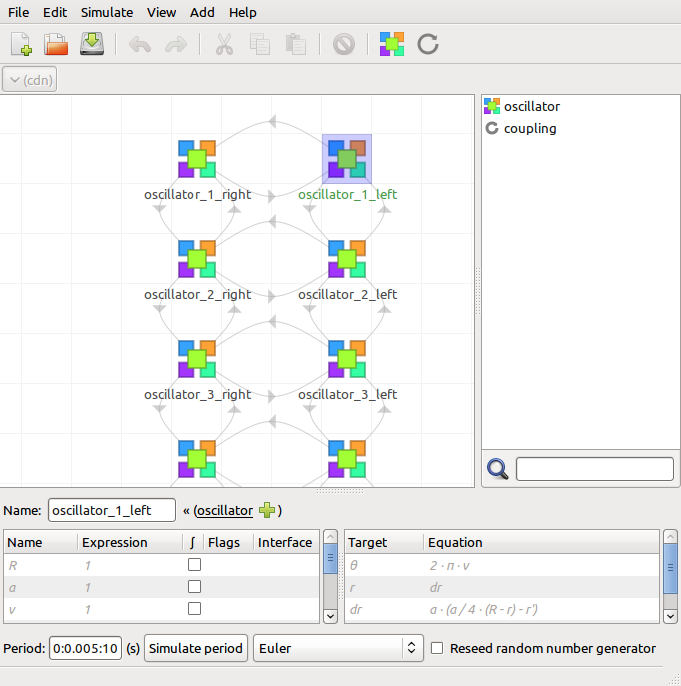
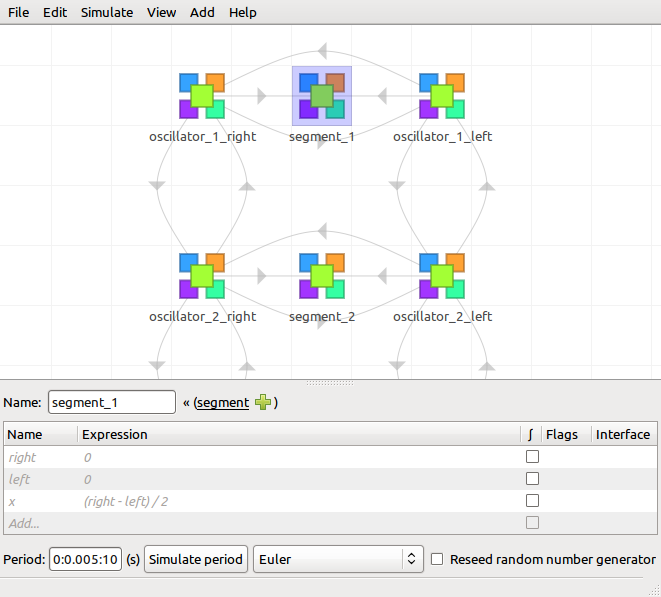
Updated renderings

Changed region(s): [[0.0, 0.0, 1.0, 0.995], [0.5749, 0.603, 0.6051, 0.6332]]

diff --git a/docs/figures/complete.inc.tex b/docs/figures/complete.inc.tex
@@ -1,21 +1,29 @@
 \newcommand{\rendercodyn}[1][]{
 	\begin{scope}[#1]
-		\cdnnode[cdn node,template oscillator/.try,node oscillator_1_right/.try] (oscillator_1_right) at (0, -2)
-		\cdnnode[cdn node,template oscillator/.try,node oscillator_1_left/.try] (oscillator_1_left) at (3, -2)
-		\cdnnode[cdn node,template oscillator/.try,node oscillator_2_right/.try] (oscillator_2_right) at (0, -4)
-		\cdnnode[cdn node,template oscillator/.try,node oscillator_2_left/.try] (oscillator_2_left) at (3, -4)
-		\cdnnode[cdn node,template oscillator/.try,node oscillator_3_right/.try] (oscillator_3_right) at (0, -6)
-		\cdnnode[cdn node,template oscillator/.try,node oscillator_3_left/.try] (oscillator_3_left) at (3, -6)
-		\cdnnode[cdn node,template oscillator/.try,node oscillator_4_right/.try] (oscillator_4_right) at (0, -8)
-		\cdnnode[cdn node,template oscillator/.try,node oscillator_4_left/.try] (oscillator_4_left) at (3, -8)
-		\cdnnode[cdn node,template oscillator/.try,node oscillator_5_right/.try] (oscillator_5_right) at (0, -10)
-		\cdnnode[cdn node,template oscillator/.try,node oscillator_5_left/.try] (oscillator_5_left) at (3, -10)
-		\cdnnode[cdn node,template oscillator/.try,node oscillator_6_right/.try] (oscillator_6_right) at (0, -12)
-		\cdnnode[cdn node,template oscillator/.try,node oscillator_6_left/.try] (oscillator_6_left) at (3, -12)
-		\cdnnode[cdn node,template oscillator/.try,node oscillator_7_right/.try] (oscillator_7_right) at (0, -14)
-		\cdnnode[cdn node,template oscillator/.try,node oscillator_7_left/.try] (oscillator_7_left) at (3, -14)
-		\cdnnode[cdn node,template oscillator/.try,node oscillator_8_right/.try] (oscillator_8_right) at (0, -16)
-		\cdnnode[cdn node,template oscillator/.try,node oscillator_8_left/.try] (oscillator_8_left) at (3, -16)
+		\cdnnode[cdn node,template oscillator/.try,node oscillator_1_right/.try] (oscillator_1_right) at (0, -3)
+		\cdnnode[cdn node,template oscillator/.try,node oscillator_1_left/.try] (oscillator_1_left) at (4, -3)
+		\cdnnode[cdn node,template oscillator/.try,node oscillator_2_right/.try] (oscillator_2_right) at (0, -6)
+		\cdnnode[cdn node,template oscillator/.try,node oscillator_2_left/.try] (oscillator_2_left) at (4, -6)
+		\cdnnode[cdn node,template oscillator/.try,node oscillator_3_right/.try] (oscillator_3_right) at (0, -9)
+		\cdnnode[cdn node,template oscillator/.try,node oscillator_3_left/.try] (oscillator_3_left) at (4, -9)
+		\cdnnode[cdn node,template oscillator/.try,node oscillator_4_right/.try] (oscillator_4_right) at (0, -12)
+		\cdnnode[cdn node,template oscillator/.try,node oscillator_4_left/.try] (oscillator_4_left) at (4, -12)
+		\cdnnode[cdn node,template oscillator/.try,node oscillator_5_right/.try] (oscillator_5_right) at (0, -15)
+		\cdnnode[cdn node,template oscillator/.try,node oscillator_5_left/.try] (oscillator_5_left) at (4, -15)
+		\cdnnode[cdn node,template oscillator/.try,node oscillator_6_right/.try] (oscillator_6_right) at (0, -18)
+		\cdnnode[cdn node,template oscillator/.try,node oscillator_6_left/.try] (oscillator_6_left) at (4, -18)
+		\cdnnode[cdn node,template oscillator/.try,node oscillator_7_right/.try] (oscillator_7_right) at (0, -21)
+		\cdnnode[cdn node,template oscillator/.try,node oscillator_7_left/.try] (oscillator_7_left) at (4, -21)
+		\cdnnode[cdn node,template oscillator/.try,node oscillator_8_right/.try] (oscillator_8_right) at (0, -24)
+		\cdnnode[cdn node,template oscillator/.try,node oscillator_8_left/.try] (oscillator_8_left) at (4, -24)
+		\cdnnode[cdn node,template segment/.try,node segment_1/.try] (segment_1) at (2, -3)
+		\cdnnode[cdn node,template segment/.try,node segment_2/.try] (segment_2) at (2, -6)
+		\cdnnode[cdn node,template segment/.try,node segment_3/.try] (segment_3) at (2, -9)
+		\cdnnode[cdn node,template segment/.try,node segment_4/.try] (segment_4) at (2, -12)
+		\cdnnode[cdn node,template segment/.try,node segment_5/.try] (segment_5) at (2, -15)
+		\cdnnode[cdn node,template segment/.try,node segment_6/.try] (segment_6) at (2, -18)
+		\cdnnode[cdn node,template segment/.try,node segment_7/.try] (segment_7) at (2, -21)
+		\cdnnode[cdn node,template segment/.try,node segment_8/.try] (segment_8) at (2, -24)
 
 		\cdnconnect[cdn offset=1,cdn edge,template coupling/.try,edge edge_1/.try] (edge_1) from (oscillator_1_right) to (oscillator_2_right)
 		\cdnconnect[cdn offset=1,cdn edge,template coupling/.try,edge edge_2/.try] (edge_2) from (oscillator_2_right) to (oscillator_1_right)
@@ -61,9 +69,25 @@
 		\cdnconnect[cdn offset=1,cdn edge,template coupling/.try,edge edge_14_1/.try] (edge_14_1) from (oscillator_7_left) to (oscillator_7_right)
 		\cdnconnect[cdn offset=1,cdn edge,template coupling/.try,edge edge_15_1/.try] (edge_15_1) from (oscillator_8_right) to (oscillator_8_left)
 		\cdnconnect[cdn offset=1,cdn edge,template coupling/.try,edge edge_16_1/.try] (edge_16_1) from (oscillator_8_left) to (oscillator_8_right)
+		\cdnconnect[cdn offset=0,cdn edge,edge edge_1_2/.try] (edge_1_2) from (oscillator_1_right) to (segment_1)
+		\cdnconnect[cdn offset=0,cdn edge,edge edge_2_2/.try] (edge_2_2) from (oscillator_1_left) to (segment_1)
+		\cdnconnect[cdn offset=0,cdn edge,edge edge_3_2/.try] (edge_3_2) from (oscillator_2_right) to (segment_2)
+		\cdnconnect[cdn offset=0,cdn edge,edge edge_4_2/.try] (edge_4_2) from (oscillator_2_left) to (segment_2)
+		\cdnconnect[cdn offset=0,cdn edge,edge edge_5_2/.try] (edge_5_2) from (oscillator_3_right) to (segment_3)
+		\cdnconnect[cdn offset=0,cdn edge,edge edge_6_2/.try] (edge_6_2) from (oscillator_3_left) to (segment_3)
+		\cdnconnect[cdn offset=0,cdn edge,edge edge_7_2/.try] (edge_7_2) from (oscillator_4_right) to (segment_4)
+		\cdnconnect[cdn offset=0,cdn edge,edge edge_8_2/.try] (edge_8_2) from (oscillator_4_left) to (segment_4)
+		\cdnconnect[cdn offset=0,cdn edge,edge edge_9_2/.try] (edge_9_2) from (oscillator_5_right) to (segment_5)
+		\cdnconnect[cdn offset=0,cdn edge,edge edge_10_2/.try] (edge_10_2) from (oscillator_5_left) to (segment_5)
+		\cdnconnect[cdn offset=0,cdn edge,edge edge_11_2/.try] (edge_11_2) from (oscillator_6_right) to (segment_6)
+		\cdnconnect[cdn offset=0,cdn edge,edge edge_12_2/.try] (edge_12_2) from (oscillator_6_left) to (segment_6)
+		\cdnconnect[cdn offset=0,cdn edge,edge edge_13_2/.try] (edge_13_2) from (oscillator_7_right) to (segment_7)
+		\cdnconnect[cdn offset=0,cdn edge,edge edge_14_2/.try] (edge_14_2) from (oscillator_7_left) to (segment_7)
+		\cdnconnect[cdn offset=0,cdn edge,edge edge_15_2/.try] (edge_15_2) from (oscillator_8_right) to (segment_8)
+		\cdnconnect[cdn offset=0,cdn edge,edge edge_16_2/.try] (edge_16_2) from (oscillator_8_left) to (segment_8)
 
-		\cdnlabel[label position=north west,cdn node,template oscillator/.try,node oscillator_1_right/.try] (oscillator_1_right)
-		\cdnlabel[label position=north east,cdn node,template oscillator/.try,node oscillator_1_left/.try] (oscillator_1_left)
+		\cdnlabel[label position=west,cdn node,template oscillator/.try,node oscillator_1_right/.try] (oscillator_1_right)
+		\cdnlabel[label position=east,cdn node,template oscillator/.try,node oscillator_1_left/.try] (oscillator_1_left)
 		\cdnlabel[label position=west,cdn node,template oscillator/.try,node oscillator_2_right/.try] (oscillator_2_right)
 		\cdnlabel[label position=east,cdn node,template oscillator/.try,node oscillator_2_left/.try] (oscillator_2_left)
 		\cdnlabel[label position=west,cdn node,template oscillator/.try,node oscillator_3_right/.try] (oscillator_3_right)
@@ -76,8 +100,16 @@
 		\cdnlabel[label position=east,cdn node,template oscillator/.try,node oscillator_6_left/.try] (oscillator_6_left)
 		\cdnlabel[label position=west,cdn node,template oscillator/.try,node oscillator_7_right/.try] (oscillator_7_right)
 		\cdnlabel[label position=east,cdn node,template oscillator/.try,node oscillator_7_left/.try] (oscillator_7_left)
-		\cdnlabel[label position=south west,cdn node,template oscillator/.try,node oscillator_8_right/.try] (oscillator_8_right)
-		\cdnlabel[label position=south east,cdn node,template oscillator/.try,node oscillator_8_left/.try] (oscillator_8_left)
+		\cdnlabel[label position=west,cdn node,template oscillator/.try,node oscillator_8_right/.try] (oscillator_8_right)
+		\cdnlabel[label position=east,cdn node,template oscillator/.try,node oscillator_8_left/.try] (oscillator_8_left)
+		\cdnlabel[label position=north,cdn node,template segment/.try,node segment_1/.try] (segment_1)
+		\cdnlabel[label position=north,cdn node,template segment/.try,node segment_2/.try] (segment_2)
+		\cdnlabel[label position=north,cdn node,template segment/.try,node segment_3/.try] (segment_3)
+		\cdnlabel[label position=north,cdn node,template segment/.try,node segment_4/.try] (segment_4)
+		\cdnlabel[label position=north,cdn node,template segment/.try,node segment_5/.try] (segment_5)
+		\cdnlabel[label position=north,cdn node,template segment/.try,node segment_6/.try] (segment_6)
+		\cdnlabel[label position=north,cdn node,template segment/.try,node segment_7/.try] (segment_7)
+		\cdnlabel[label position=north,cdn node,template segment/.try,node segment_8/.try] (segment_8)
 	\end{scope}
 }
 
